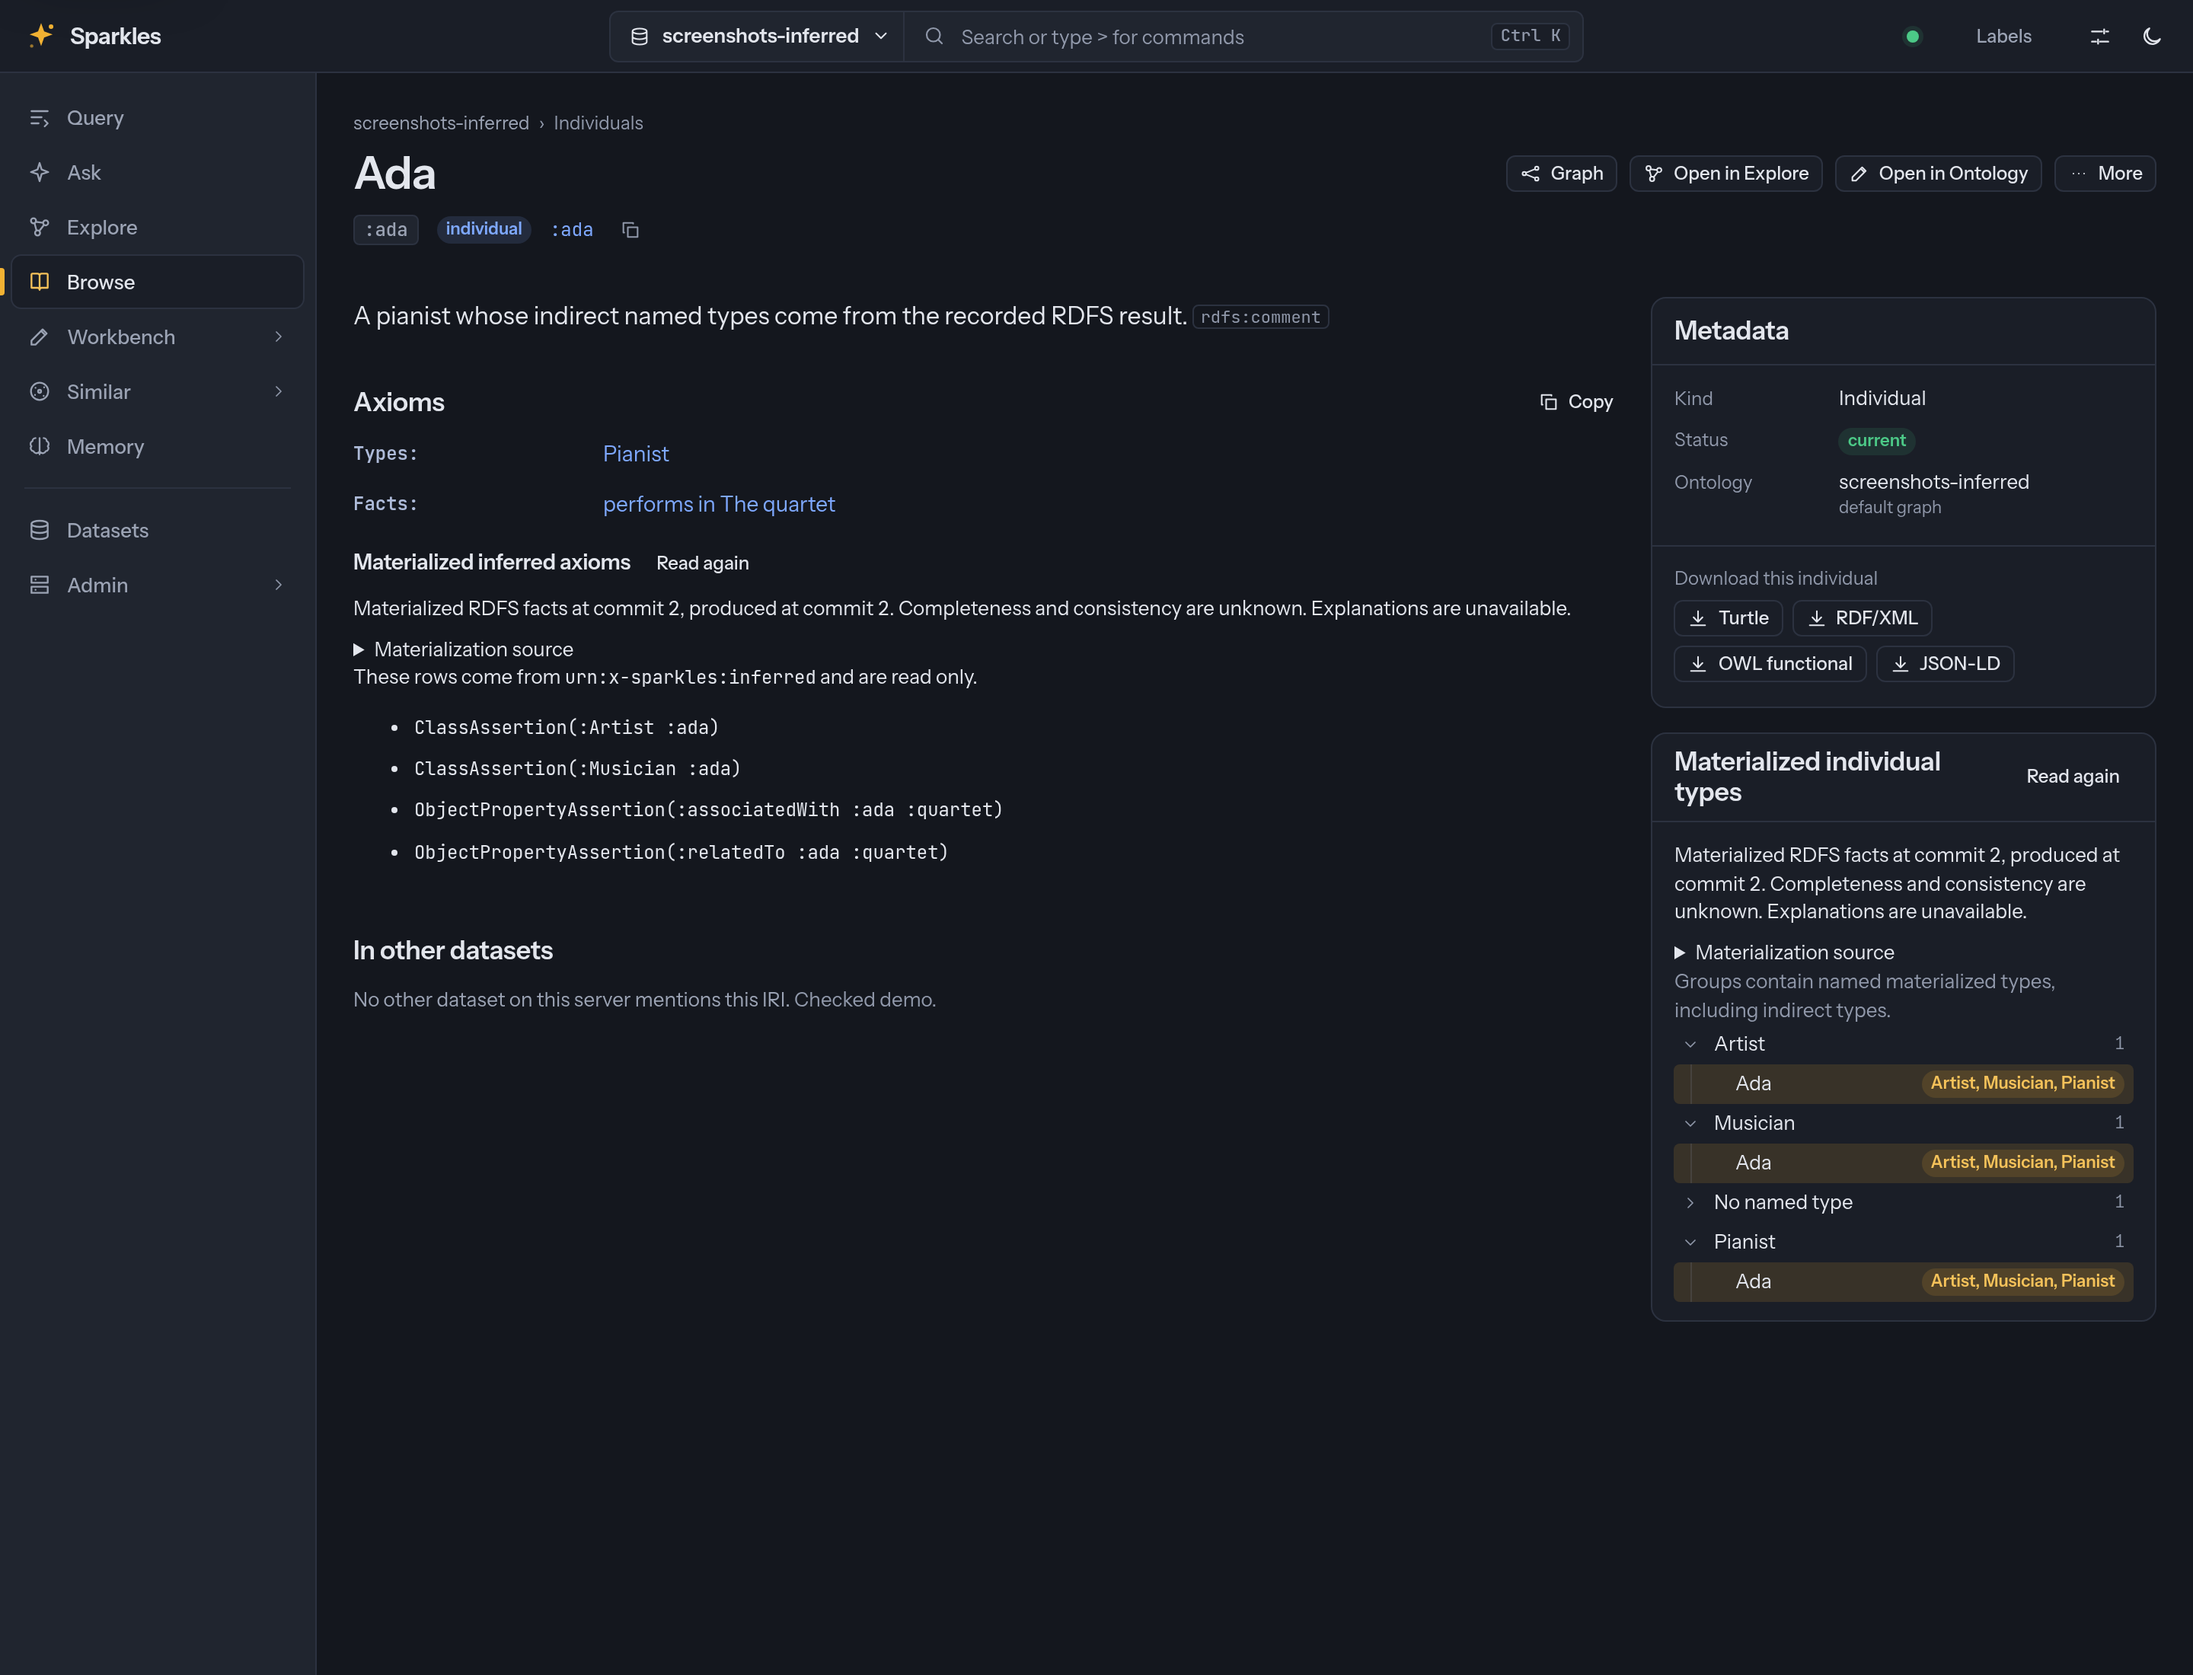
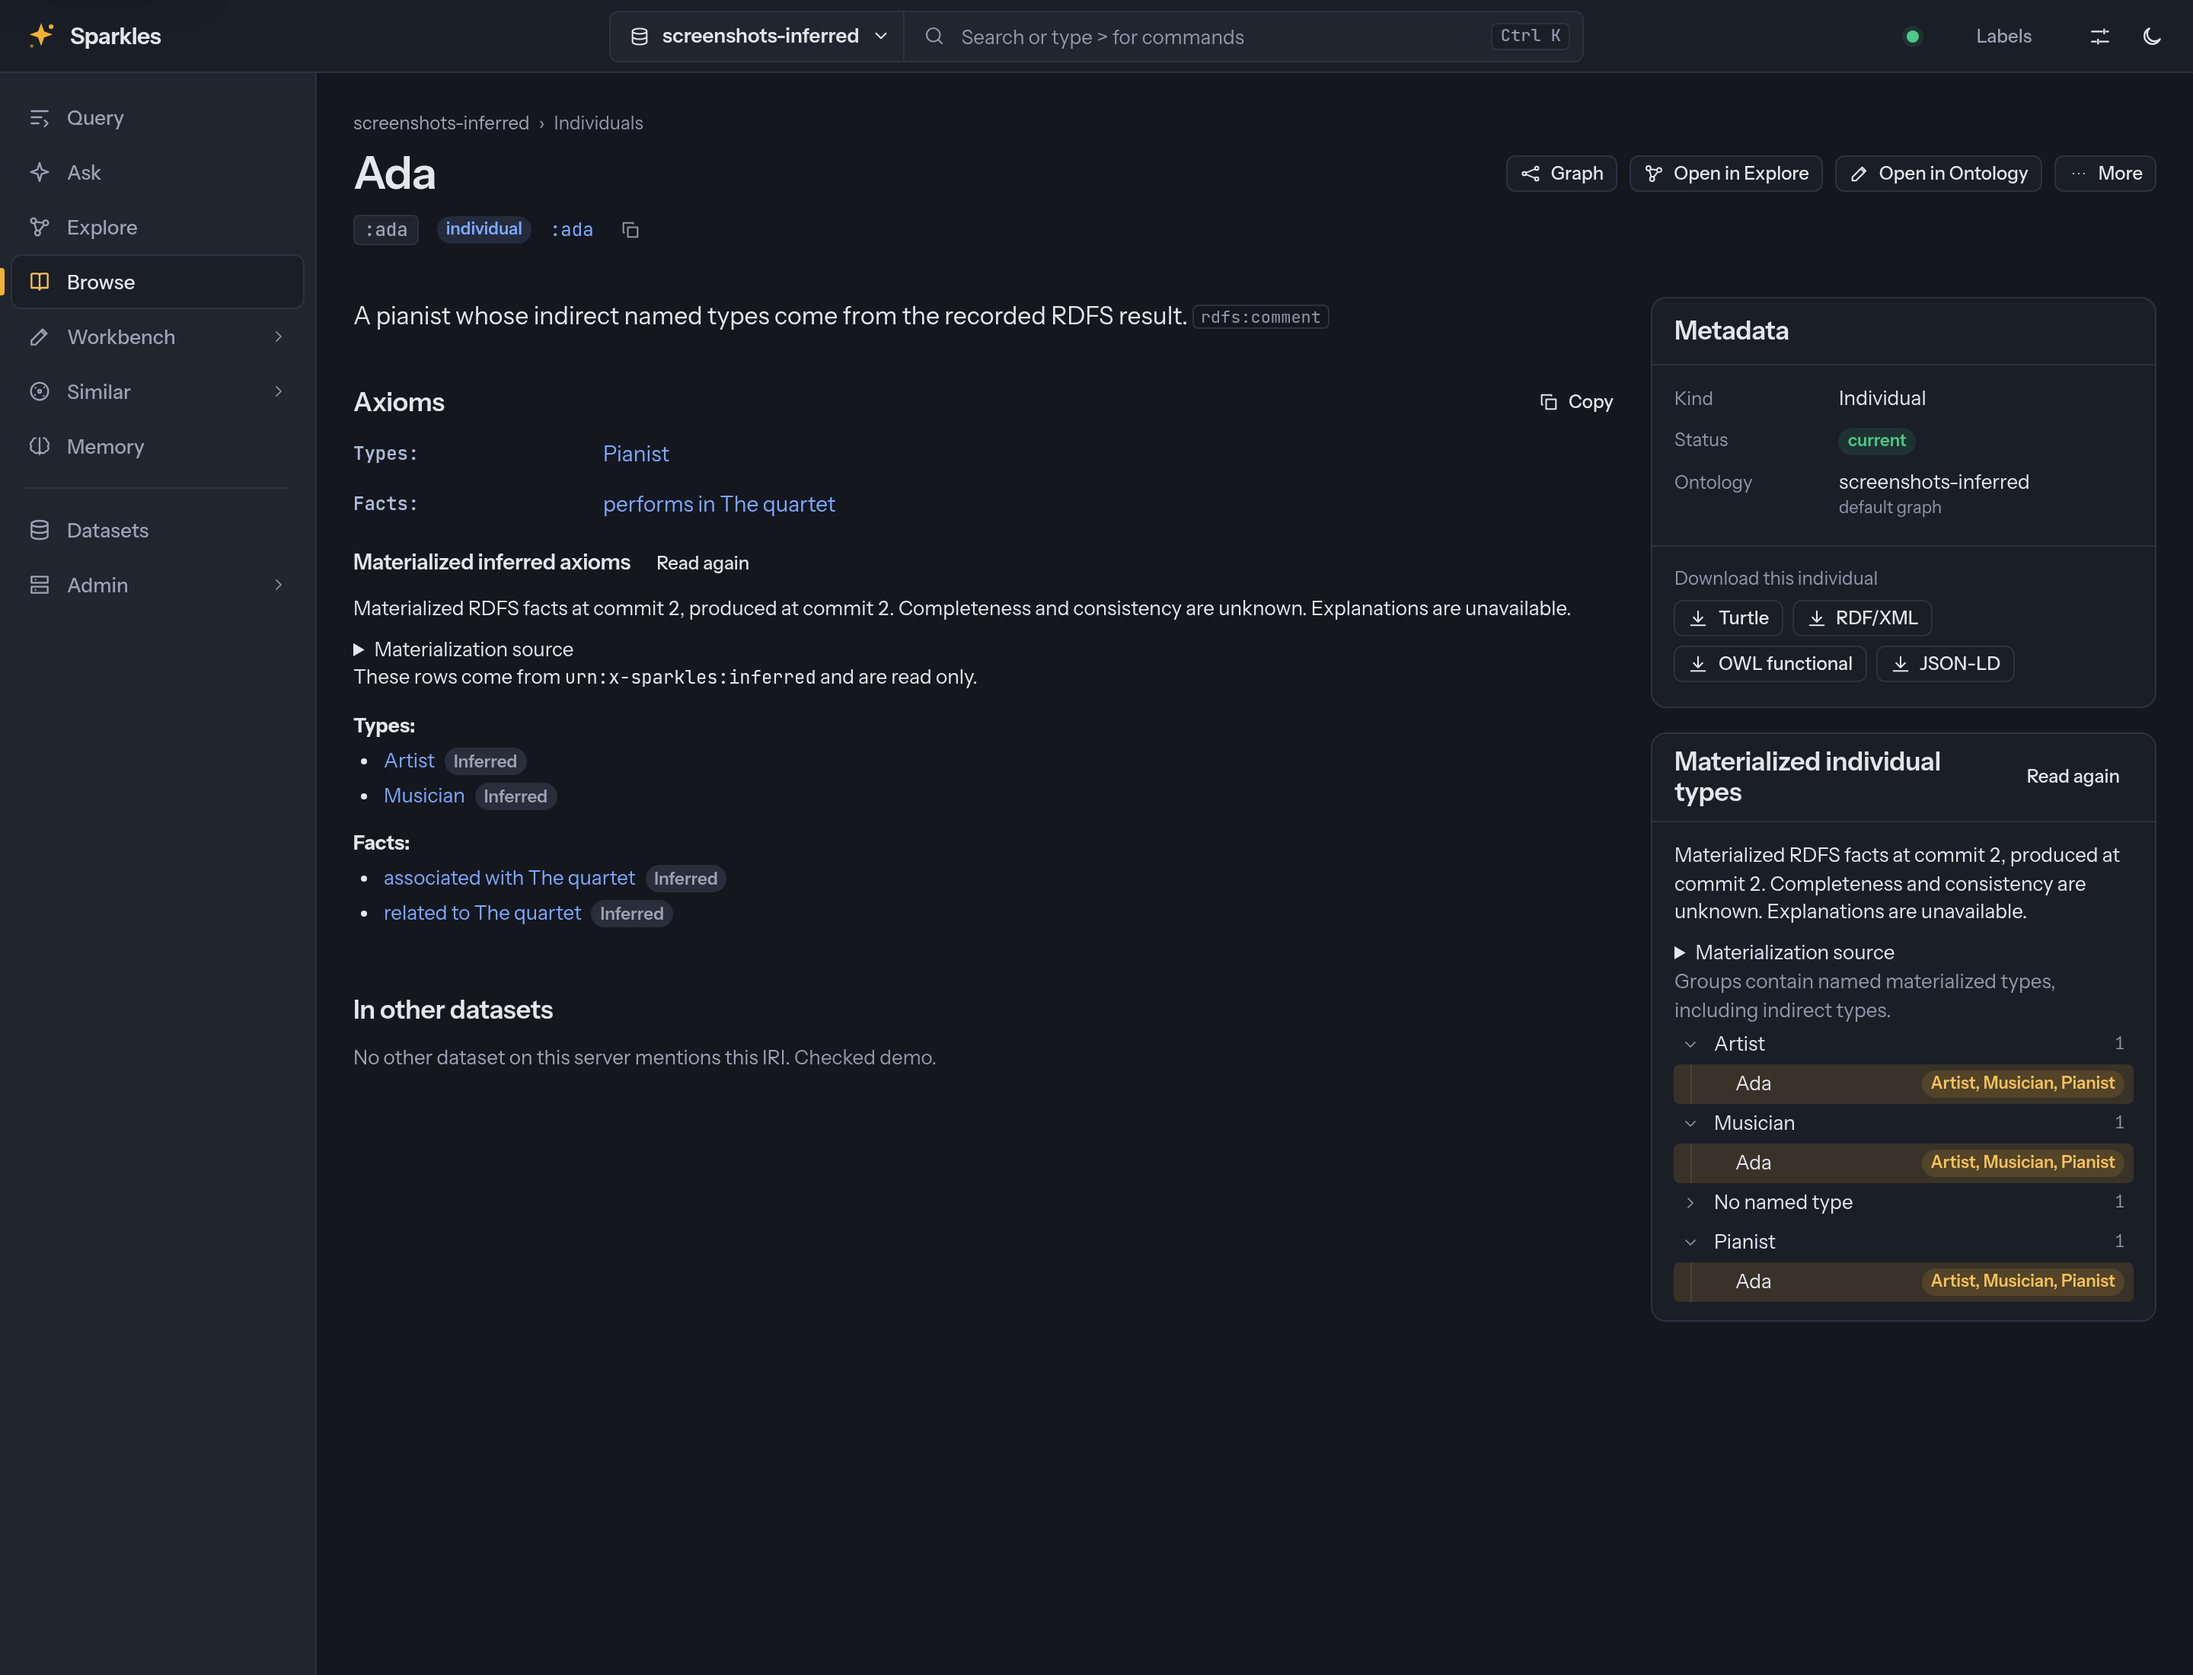
ui: materialized frame names read as the asserted frame's, and the screenshots show the clauses (622)

Changed region(s): [[0.1562, 0.4327, 0.3438, 0.6182], [0.3438, 0.4636, 0.375, 0.4945]]

diff --git a/ui/src/lib/components/MaterializedFrame.svelte b/ui/src/lib/components/MaterializedFrame.svelte
@@ -62,12 +62,12 @@
   ts: ManchesterToken[],
 )}{#each ts as t, i (i)}{#if t.role === 'name' && t.iri}{@const to =
         t.iri}{#if to !== iri && href?.(to)}<a class="iri-link" href={href(to)} title={to}
-          >{t.text}</a
+          >{name(to)}</a
         >{:else if to !== iri && onopen}<button
           class="iri-link"
           title={to}
-          onclick={() => onopen?.(to)}>{t.text}</button
-        >{:else}<span title={to}>{t.text}</span>{/if}{:else if t.role === 'kw'}<span class="kw"
+          onclick={() => onopen?.(to)}>{name(to)}</button
+        >{:else}<span title={to}>{name(to)}</span>{/if}{:else if t.role === 'kw'}<span class="kw"
         >{t.text}</span
       >{:else}{t.text}{/if}{/each}{/snippet}
 
